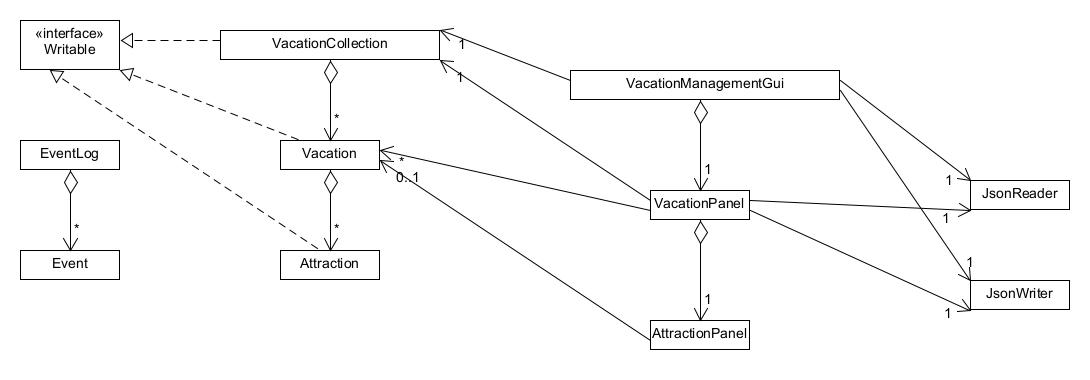
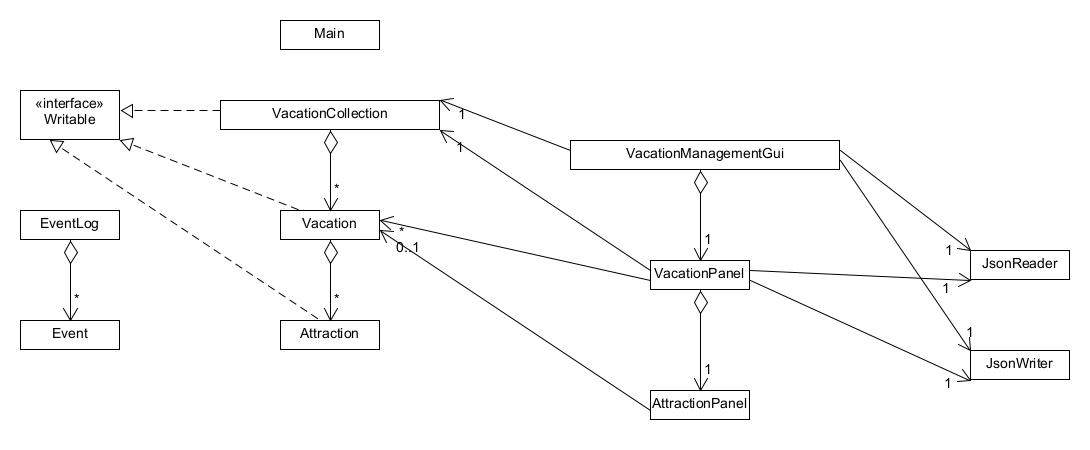
Added missing specifications, added event logging for application closing, modified UML diagram

diff --git a/src/main/ui/VacationManagementGui.java b/src/main/ui/VacationManagementGui.java
@@ -42,10 +42,10 @@ public class VacationManagementGui extends JFrame implements ActionListener {
         addWindowListener(new WindowAdapter() {
             @Override
             public void windowClosing(WindowEvent e) {
+                EventLog.getInstance().logEvent(new Event("Application has closed"));
                 for (Event event : EventLog.getInstance()) {
                     System.out.println(event.toString());
                 }
-                System.out.println("Application has closed");
                 System.exit(0);
             }
         });
@@ -163,10 +163,10 @@ public class VacationManagementGui extends JFrame implements ActionListener {
             loadVacationCollection();
         }
         if (e.getSource() == exitItem) {
+            EventLog.getInstance().logEvent(new Event("Application has closed"));
             for (Event event : EventLog.getInstance()) {
                 System.out.println(event.toString());
             }
-            System.out.println("Application has closed");
             System.exit(0);
         }
     }

diff --git a/src/main/ui/VacationPanel.java b/src/main/ui/VacationPanel.java
@@ -52,6 +52,8 @@ public class VacationPanel extends JPanel implements ListSelectionListener, Acti
         initializeUi();
     }
 
+    // MODIFIES: this
+    // EFFECT: Creates the UI components in this panel
     private void initializeUi() {
         attractionPanel = new AttractionPanel();
 
